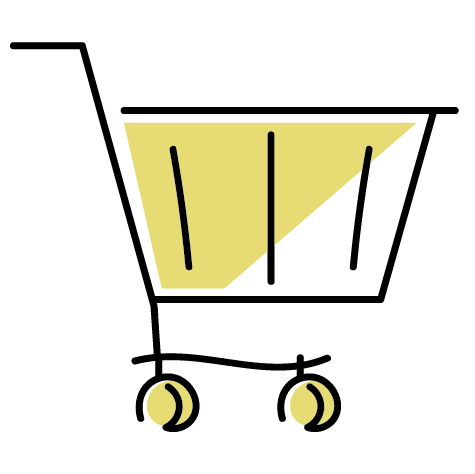
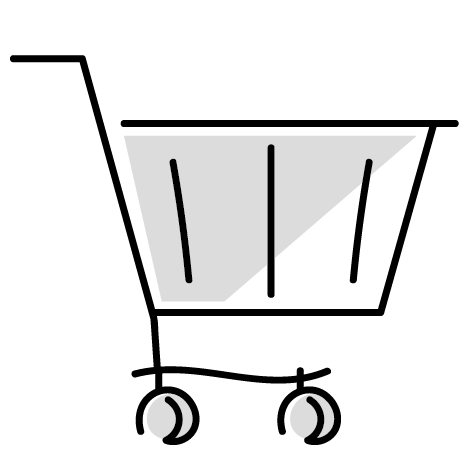
update tabmenu image

Changed region(s): [[0.0, 0.0894, 0.983, 0.9532]]

diff --git a/lib/shared/success_screen.dart b/lib/shared/success_screen.dart
@@ -32,7 +32,7 @@ class SuccessScreen extends StatelessWidget {
               SizedBox(height: 20),
               FloatingActionButton.extended(
                 icon: Image.asset(
-                  "images/tabmenu/cart.png",
+                  "images/colored_tabmenu/cart.png",
                   width: 30,
                   height: 30,
                 ),

diff --git a/lib/shared/sidemenu.dart b/lib/shared/sidemenu.dart
@@ -137,7 +137,7 @@ Widget _addFriendTile(context) {
   return ListTile(
     title: Text('フレンド'),
     leading: Padding(
-      child: Image.asset("images/tabmenu/friend.png"),
+      child: Image.asset("images/colored_tabmenu/friend.png"),
       padding: EdgeInsets.all(8.0),
     ),
     onTap: () => friendDialog(context),
